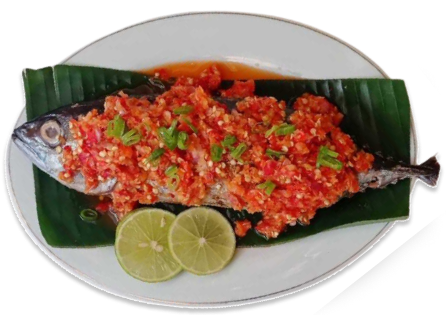
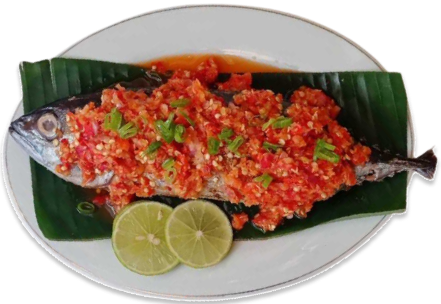
Update 0.1
- Memperbaiki ukuran gambar yang kurang pas
- Add feature changebuttoncolor in text "Baca Selengkapnya"

diff --git a/index.html b/index.html
@@ -26,16 +26,16 @@
                 Veritatis exercitationem molestias ipsam tenetur possimus 
                 omnis harum voluptas quisquam dolorem id ex, nostrum corporis
                 odio aliquam nobis ullam facilis perspiciatis officiis?</p>
-                <a href="#">Baca Selengkapnya</a>
+                <a href="#" class="button">Baca Selengkapnya</a>
             </div>
             <div class="imgBox">
                 <img src="img/food1.png" class="nusadip">
             </div>
         </div>
         <ul class="thumb">
-            <li><img src="img/thumb1.png" onclick="imgSlider('img/food1.png');changeCircleColor('#E57455')"></li>
-            <li><img src="img/thumb2.png" onclick="imgSlider('img/food2.png');changeCircleColor('#97B641')"></li>
-            <li><img src="img/thumb3.png" onclick="imgSlider('img/food3.png');changeCircleColor('#D7CB76')"></li>
+            <li><img src="img/thumb1.png" onclick="imgSlider('img/food1.png');changeCircleColor('#E57455');changeButtonColor('#E57455')"></li>
+            <li><img src="img/thumb2.png" onclick="imgSlider('img/food2.png');changeCircleColor('#97B641');changeButtonColor('#97B641')"></li>
+            <li><img src="img/thumb3.png" onclick="imgSlider('img/food3.png');changeCircleColor('#D7CB76');changeButtonColor('#D7CB76')"></li>
         </ul>
         <ul class="sci">
             <li><a href="#"><img src="img/igicon.png"></a></li>
@@ -43,6 +43,9 @@
             <li><a href="#"><img src="img/twittericon.png"></a></li>
             <li><a href="#"><img src="img/waicon.png"></a></li>
         </ul>
+    </section>
+    <section>
+        <h1>shvoshvoisehvoihsovhweobvwov</h1>
     </section>
 
     <script>
@@ -52,6 +55,10 @@
         function changeCircleColor(color){
             const circle = document.querySelector('.circle');
             circle.style.background = color;
+        }
+        function changeButtonColor(color){
+            const button = document.querySelector('.button');
+            button.style.background = color;
         }
     </script>
 </body>

diff --git a/style.css b/style.css
@@ -1,5 +1,9 @@
 @import url('https://fonts.googleapis.com/css2?family=Nunito+Sans:wght@400;600;700&display=swap');
 
+::-webkit-scrollbar {
+    display: none;
+}
+
 * {
     margin: 0;
     padding: 0;
@@ -53,7 +57,7 @@ header ul li a {
     margin-left: 40px;
     margin-top: 20px;
     padding: 8px 20px;
-    background: #E57455;
+    background: rgb(160, 160, 160);
     color: #fff;
     border-radius: 26px;
     font-weight: 500;
@@ -115,6 +119,7 @@ header ul li a {
 
 .content .imgBox img {
     max-width: 400px;
+    max-height: 300px;
 }
 
 .thumb {
